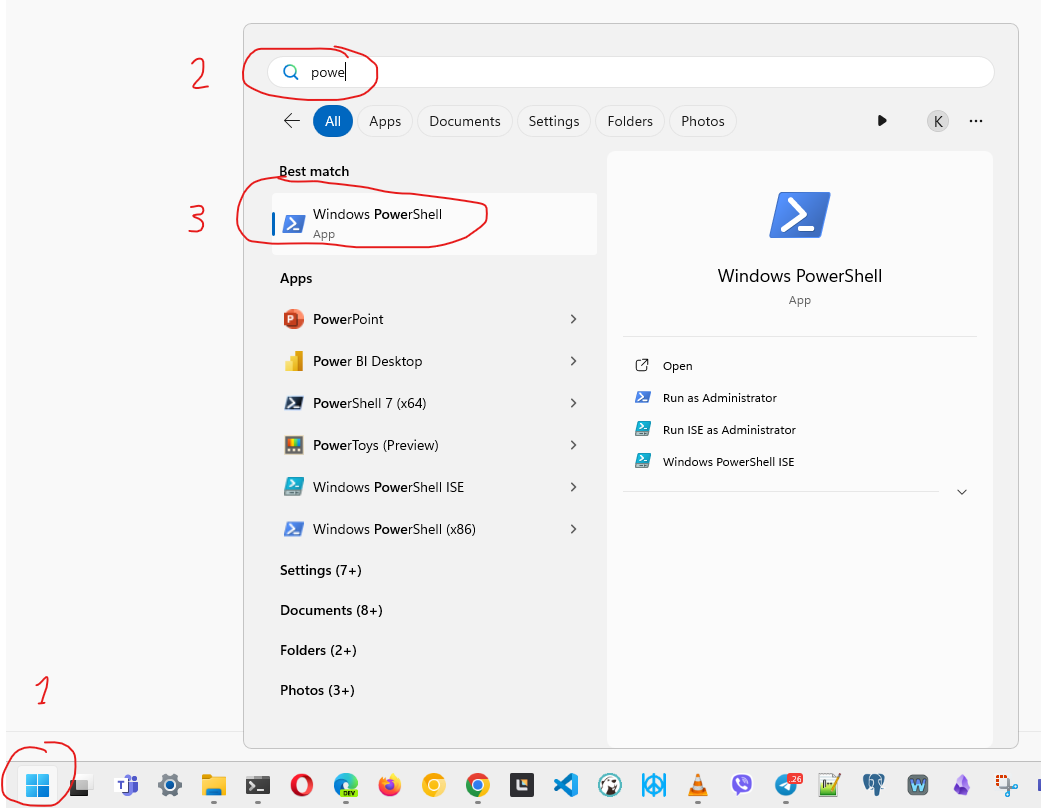
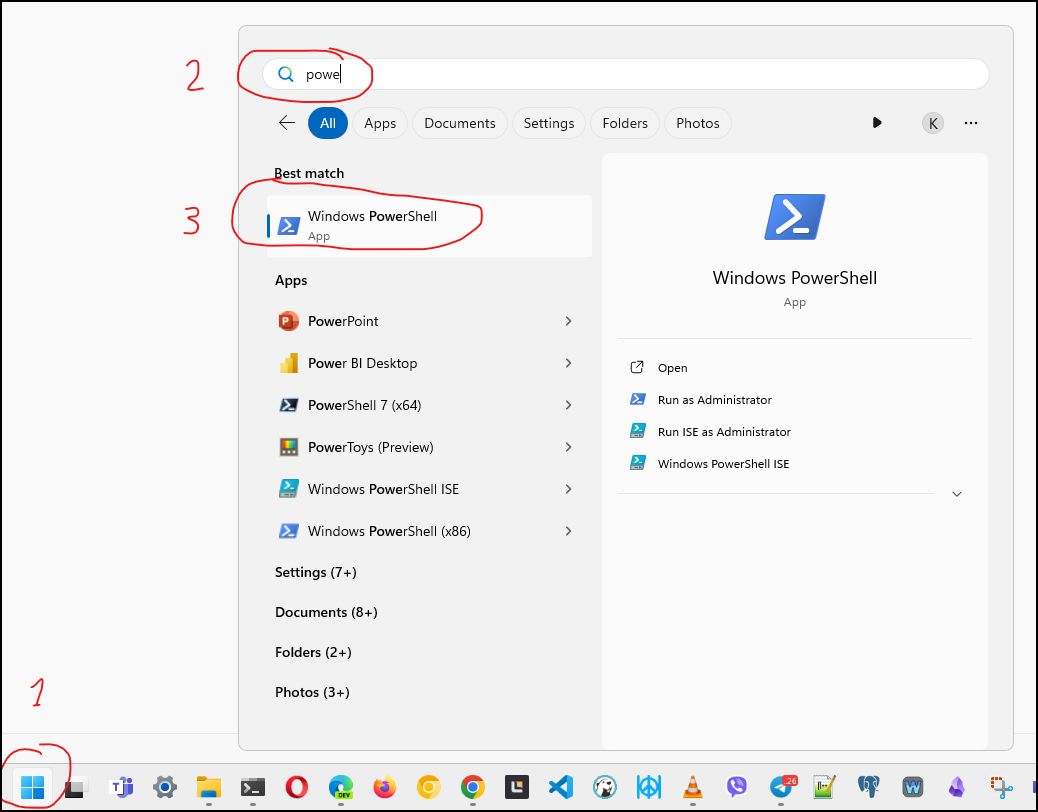
Add lab5

diff --git a/labs/lab_05_BanditCLI.md b/labs/lab_05_BanditCLI.md
@@ -1,0 +1,82 @@
+# Lab 5 - learn command line by playing a game
+
+Today we will practice command line basic by playing the 
+[Bandit](https://overthewire.org/wargames/bandit/)
+game from 
+[Overthewire Wargames](https://overthewire.org/wargames/)
+collection of games that are designed to teach IT professionals about information security.
+
+The game is organized in levels starting at 
+[Level 0](https://overthewire.org/wargames/bandit/bandit0.html),
+on each level your goal is to find the password for the next level. The username used to log in indicates the level. `bandit0` for level 0, `bandit1` for level 1 and so on.
+
+To start Level 0 connect to the game server using SSH on port 2220 using this command. The username and password are both `bandit0`
+```
+ssh bandit0@bandit.labs.overthewire.org -p 2220
+```
+
+Once you find the password for the next level, save it in a file on your computer and exit by running the `exit` command. You will be back to your local computer prompt. In order to start the next level, log in again with the username of the next level  
+`ssh bandit1@bandit.labs.overthewire.org -p 2220`
+
+## How to open the terminal
+- MacOS - open Spotlight (usually ⌘-Space) and start typing "terminal" - run it
+  - Or find it in `Applications` -> `Utilities`
+- Windows - Open the ⊞Start menu (Win key) and start typing "Terminal" - run it
+  - running `cmd` or `Power Shell` instead of Terminal may work ok too
+ 
+> [!NOTE]  
+> If you have an old version of Windows that does not include an SSH client, you can 
+use [PuTTY](https://www.chiark.greenend.org.uk/~sgtatham/putty/latest.html) instead.
+
+It should look like this in your terminal  
+![Run SSH](img/power_shell_ssh.png)
+
+How to run Terminal or PowerShell on Windows
+![Run Power Shell](img/start_power_shell.png)
+
+
+
+
+## Submission
+Follow the assignment invitation link  
+https://classroom.github.com/a/qa5inA9h  
+Once your repository is created, edit `passwords.txt` file. Save all the passwords you find during the game in that file.
+
+Your goal is to reach level 3, the instructor and the autograder hints will guide you there, but feel free to keep going beyond level 3.
+
+## Using the terminal - general tips
+
+- When you type the password, nothing is shown, not even `*` characters, that's ok
+
+- The mouse works in a weird way in the terminal, you can't place a cursor using the mouse, use the arrow keys and `Home` & `End` keys if you have them. Also try the arrow keys with ctrl or alt pressed, the cursor will jump faster.
+
+- Copying and pasting in terminal might be difficult. If you have troubles with the usual Ctrl-C Ctrl-V try using the mouse - you can double click a word with a mouse to select it, right-click copies it to clipboard, right-click again (with nothing selected) will paste it. 
+
+- Use the Tab key, it may be able to autocomplete the command. E.g. you started typing `less re` and then press Tab, it will autocomplete it to `less readme` if there is a file named readme in the current folder
+
+- Use the ↑ arrow key to re-run a recent command without re-typing them
+
+## Commands & features you may find useful
+- `man` - short for "manual", example `man ls` will display help for the `ls` command. To exit the help text press `q`
+- `ls` - list all files in current directory, to include hidden files use `ls -a`, the `-a` option statnds for "all". `-l` is for long form that includes file sizes.
+- `cat` and `less` - both show the content of a text file. To quit from `less` press `q`
+- `cd` - change directory. Examples: `cd labs`, `cd src/projectA/docs`
+  - `cd ..` changes to the parent directory, one level up
+- Command arguments can be quoted, like `cat "file with spaces.txt"`
+- You may need to escape some characters, like `cat file\ with\ spaces.txt` - in this case the space character is escaped using `\`
+
+```
+ __________________
+< Have a good game >
+ ------------------
+        \   ^__^
+         \  (oo)\_______
+            (__)\       )\/\
+                ||----w |
+                ||     ||
+```
+
+
+
+
+
